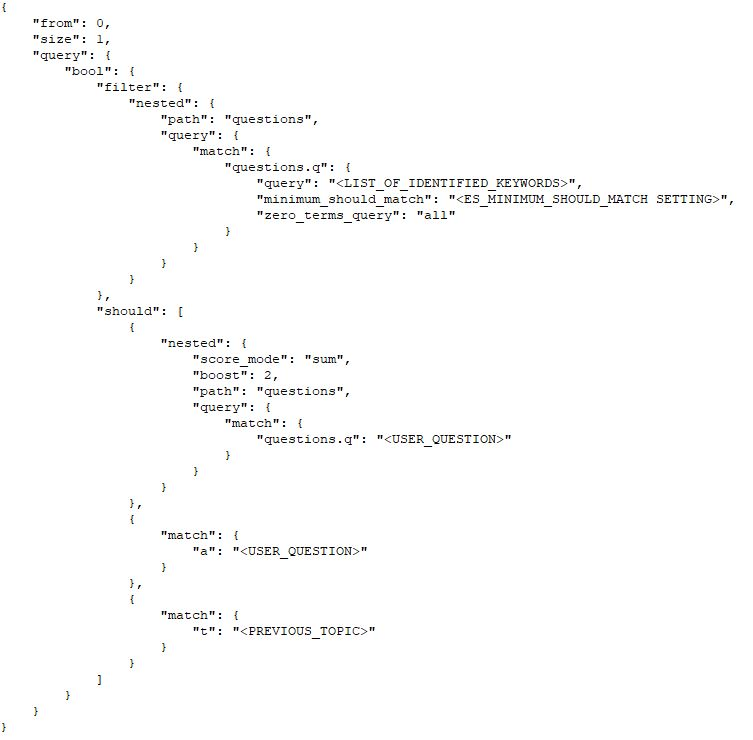
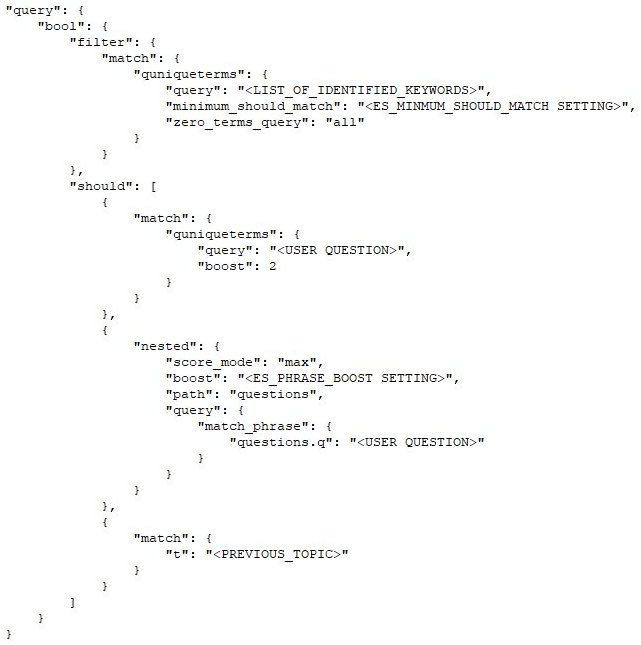
updates to tuning accuracy guide

diff --git a/tuning_accuracy_guide/AWS_QnABot_tuning_recognition_accuracy_guide.md b/tuning_accuracy_guide/AWS_QnABot_tuning_recognition_accuracy_guide.md
@@ -1,4 +1,4 @@
-**Tuning Recognition Accuracy**
+**Tuning Recognition Accuracy**
 ===============================
 
 Overview
@@ -106,39 +106,81 @@ When you ask QnABot a question, a few things happen:
     the QnABot will choose that item as the most relevant answer. Noise
     words such as article, preposition in sentence constructs have lower
     weighting than unique keywords.
+    
+    -   The keyword filter feature helps QnABot to be more accurate when 
+    answering questions, and to admit more readily when it doesn’t know the 
+    answer. The keyword filter feature works by using Amazon Comprehend to 
+    determine the ‘part of speech’ that applies to each word you say to QnABot. 
+    By default, nouns (including proper nouns), verbs, and interjections are 
+    used as ‘keywords’. Any answer returned by QnABot must have questions 
+    that match these keywords, using the following (default) rule:
+    
+       - if there are 1 or 2 keywords, then all keywords must match.  
+       - if there are 3 or more keywords, then 75% of the keywords must match.  
+       - If QnABot can’t find any answers that match these keyword filter rules, 
+       then it will admit that it doesn’t know the answer rather than guessing 
+       an answer that doesn’t match the keywords. QnABot logs every question 
+       that it can’t answer so you can see them in the Kibana Dashboard which 
+       we’ll show you a little later. The keyword filters feature is enabled by 
+       default, but if it causes problems for you, you can customize its 
+       settings, or disable it altogether - see [Modifying configuration settings](https://www.amazon.com/qnabot/#config-settings)
 
-    -   The QnABot fulfillment Lambda function generates an Amazon ES query
-    containing the transcribed question. The query attempts to find the
-    best match from all the questions and answers you have previously
-    provided, filtering items to apply the keyword filters and using
-    Amazon ES relevance scoring to rank the results. Matches found in
-    the text of stored questions (nested field: {questions.q}) are
-    summed and given greater weight than matches found in the text of
-    the stored answers (field: {a}). The topic value assigned to the
-    previous answer (if any) will increase the overall relevance score
-    for matches on topic value (field {t}). The following example shows
-    the query:
+    -   The Bot fulfillment Lambda function generates an Amazon ES query 
+    containing the transcribed question. The query attempts to find the best 
+    match from all the questions and answers you’ve previously provided, 
+    filtering items to apply the keyword filters and using Amazon ES 
+    relevance scoring to rank the results. Scoring is based on (i) matching 
+    the words in the user’s question against the unique set of words used in 
+    the stored questions (“quniqueterms”), (ii) matching the phrasing of the 
+    user’s question to the text of stored questions (nested field: questions.q),
+    and (iii) matching the topic value assigned to the previous answer (if any) 
+    to increase the overall relevance score when topic value (field t) matches. 
+    The following example shows the query.:
 
       ![](image3.png)
       *Figure 2.0 -- Example Elasticsearch query*
 
-      ![](image4.png)
+      -   If an item has a large number of questions representing many unique 
+      words, you might find that a short question (one or two words) might not 
+      generate a high enough score to match the correct answer, even if it 
+      exactly matches one of the stored questions in the item. You can 
+      experiment by increasing the weight (boost) given to exact 'phrase'
+      matches:
+      
+          a.  Log in to the content designer, choose the tools menu ( ☰ ) and
+    choose Settings.
 
-      *Figure 3.0 -- Elasticsearch index mapping*
+          b.  Change the value of the setting ES\_PHRASE\_BOOST from default
+          or '4' to a larger number, say '8'.
 
-      -   By including matches found in the answer field, QnABot gives greater
-    relevance to items where the answer contains multiple references to
-    the terms used in the user's question. This is not always desirable,
-    however, since term matches contained in the answer {a} field can
-    make it harder to predict and control the items, you want to score
-    highest for any question. You can now configure the QnABot to score
-    matches only using the question {questions.q} and topic {t} fields:
+          c.  Scroll to the bottom and choose Save.
+          
+      -   QnABot now supports Elasticsearch fuzzy matching which makes it more 
+      tolerant of misspellings and typing errors in the user input. Enable 
+      this feature in the Settings page:
+      
+          a.  Log in to the content designer, choose the tools menu ( ☰ ) and
+    choose Settings.
+
+          b.  Change the value of the setting ES\_USE\_FUZZY\_MATCH from false
+    to true.
+
+          c.  Scroll to the bottom and choose Save.
+          
+      -   In previous releases, QnABot also included matches found in the 
+      answer field to give greater relevance to items where the answer 
+      contains multiple references to the terms used in the user’s question. 
+      This is not always desirable, however, since term matches contained in 
+      the answer field can make it harder to predict and control the items 
+      you want to score highest for any question. QnABot v4.0.0 and later 
+      disables this feature by default. You can, of course, turn it on 
+      again using the Settings page::
 
           a.  Log in to the content designer, choose the tools menu ( ☰ ) and
     choose Settings.
 
-          b.  Change the value of the setting ES\_SCORE\_ANSWER\_FIELD from true
-    to false.
+          b.  Change the value of the setting ES\_SCORE\_ANSWER\_FIELD from false
+    to true.
 
           c.  Scroll to the bottom and choose Save.
 
@@ -234,24 +276,30 @@ understand user input.
 
 ![](image10.png)
 
-*Figure 5.0 -- Example question that can provide undesired and skewed results*
+*Figure 5.0 -- Example question variations*
 
-In the above example, you can see that the question uses repeated "*how
-do I use*" phrase in the question. This could skew other questions like
-"*How do I use* Alexa?" or \"*How do I use* Kibana?\" to this answer. If
-you had another item, with just one question "*How do I use* Alexa?" It
-might not get the highest score because the cumulative score for the
-repeated "*how do I use*" from the three questions in the above example
-could add up to more than the score for the match on "*How do I use*
-Alexa?" or \"*How do I use* Kibana?\"
+In previous releases (before v4.0.0) repeated terms like "*how
+do I use*" could skew scoring toward items with higher numbers of repeating words.
+In QnABot 4.0.0 and onward, this problem has been eliminated by changing the 
+elasticsearch index and query to socre now only on unique (not repeating) word
+matches. Previously we recommended to avoid repeating phrases in multiple
+questions by putting all the alternatives into a single question like 
+`"How do I use Q&A / q and a chatbot?"`. This practice is no longer recommended.
+  
+Instead, just add new questions as needed to represent various synonyms and 
+phrases that a user might say to mean the same thing. 
 
-It is a better practice to avoid repeating phrases in multiple
-questions. Instead, you can actually put all the alternatives into a
-single question, such as below:
+The example questions you provide are used to help improve the accuracy of the
+answers from QnABot. 
 
-```
-"How do I use Q&A / q and a chatbot?"
-````
+The example questions are also used to train the Lex Bot (or Alexa skill) to
+provide more accurate voice recognition, especially when questions are expected
+to contain uncommon words like acronyms, proper names, or specialized vocabulary.
+When using voice, for example when using QnABot in an Amazon Connect contact 
+center, you will find that transcribed questions are more accurate when you 
+provide many examples, and use the 'LEX REBUILD' feature as described in 
+[Tuning the Bot’s Natural Language Processing](https://www.amazon.com/qnabot/#troubleshoot-tune).
+
 
 These options can further help tune the chatbot to better understand
 user input and be able to support different ways of asking the same
@@ -261,7 +309,8 @@ Conclusion
 ==========
 
 There are of course many ways we can improve the search experience, such
-as adding support for synonyms, lexicons, taxonomies. We are continuing
+as adding support for synonyms, lexicons, taxonomies, and [Amazon Kendra integration](https://www.amazon.com/qnabot/#kendra)
+now provides an alternative approach to question matching. We are continuing
 to explore and see how that we could best integrate that in the
 solution. As we look to further improving and extending the AWS QnABot
 solution with more functionalities and features, we welcome you to share
